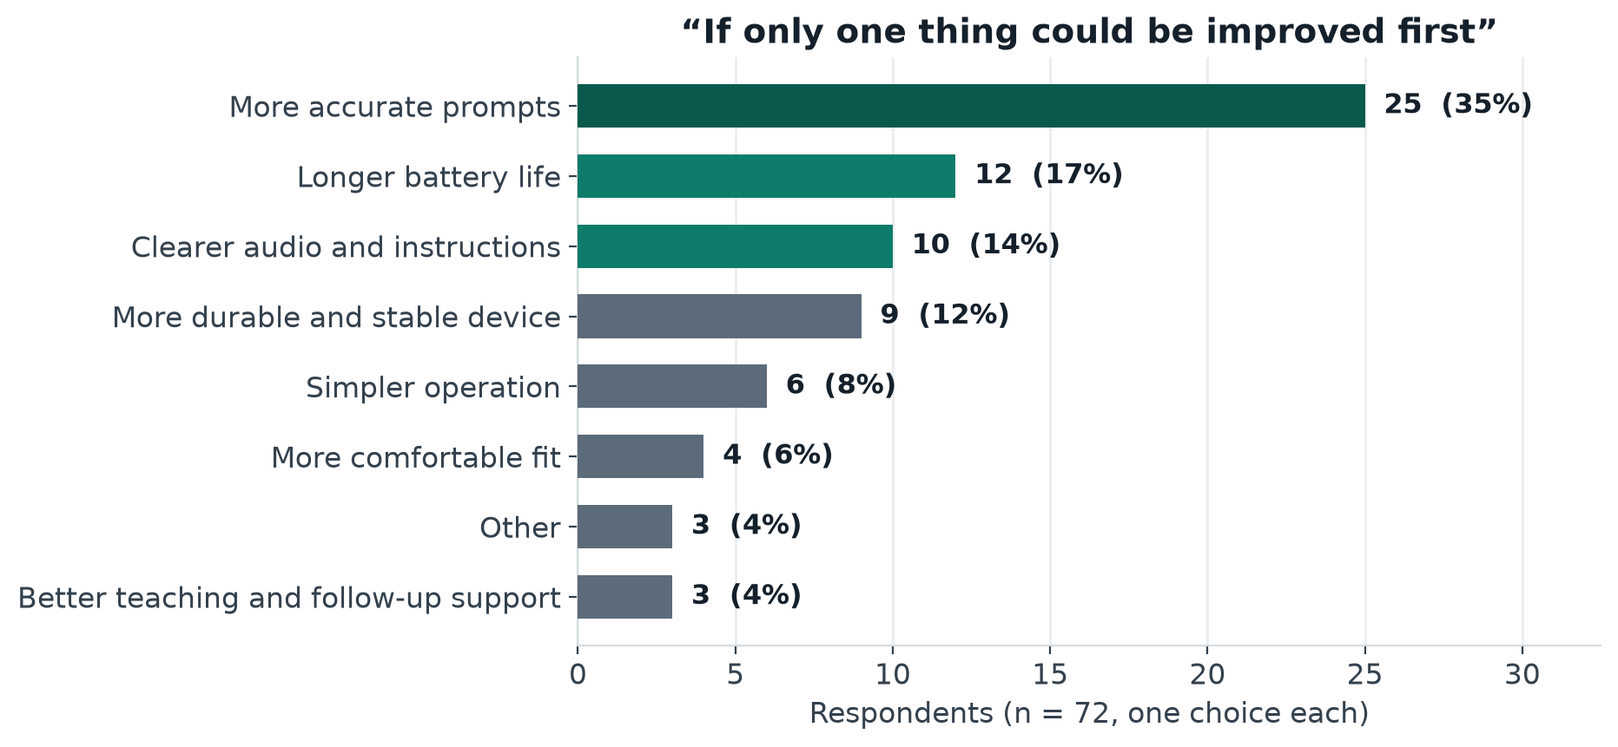
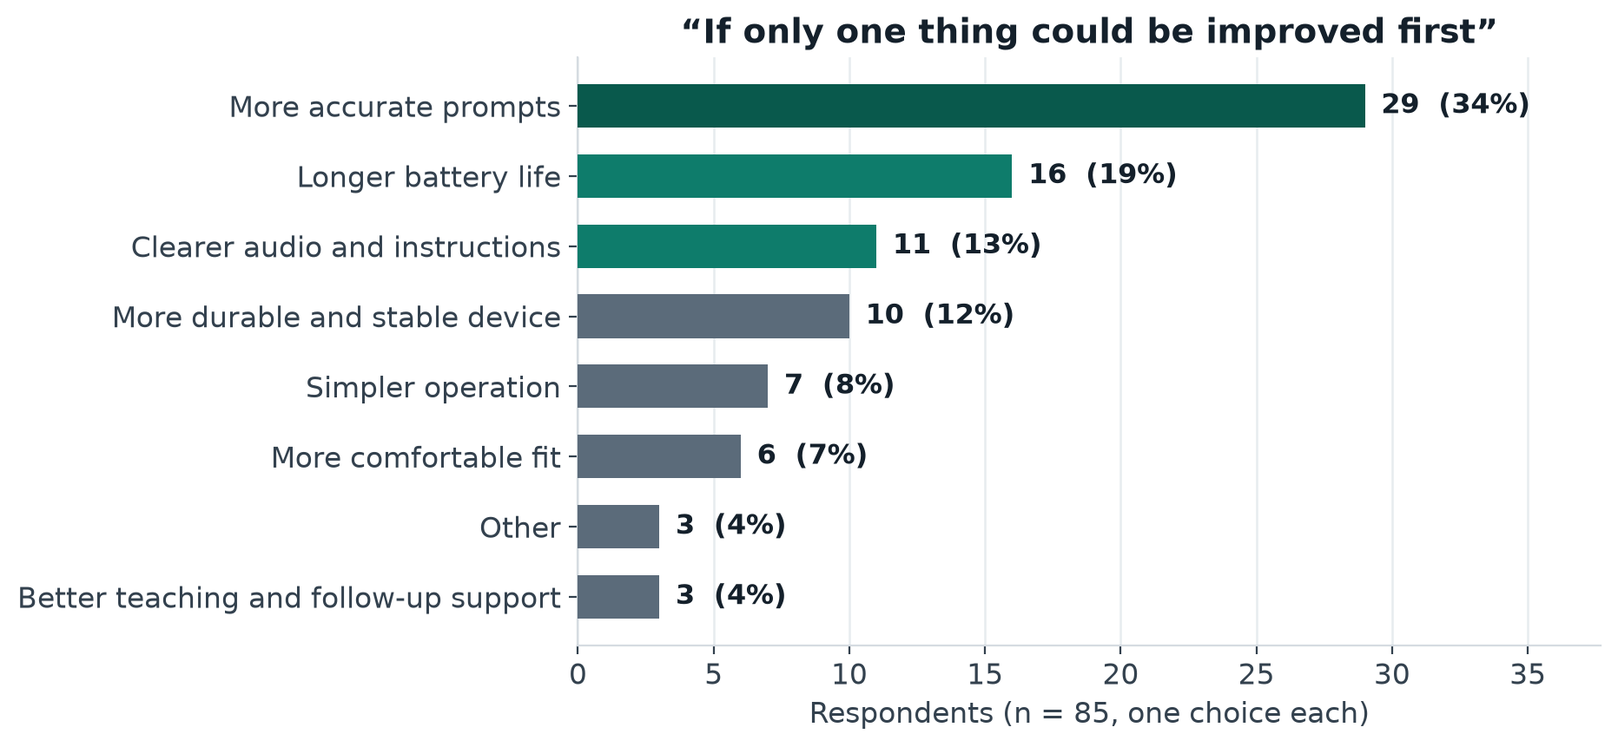
data: complete survey export (85 responses) and recompute all published figures
The first published export was missing 13 responses from the
Chinese-language path. The raw CSV is replaced byte-for-byte with the
complete export, summary.json and the four charts are regenerated with
the repository's own scripts, and every figure in the feedback report,
both READMEs, the community document, the roadmap and the evaluation
pages is updated to match. Mean helpfulness is unchanged at 3.47;
users rise 53 -> 64, inaccurate prompts 51% -> 48%, still using stays
9 (now of 64). A data note in FEEDBACK.md records the correction; the
v1.9.1 Zenodo archive keeps the figures as first published.

diff --git a/README.md b/README.md
@@ -17,7 +17,7 @@ An open-source, under-$35 navigation-glasses direction for blind and low-vision 
 
 [Demo →](#run-the-demo) · [Build →](design/v0.4/README.md) · [Feedback results →](docs/FEEDBACK.md) · [Join →](docs/CONTRIBUTING.md)
 
-**Under $35 to build** · **Nearly 60 people reached** · **72 feedback responses**
+**Under $35 to build** · **Nearly 60 people reached** · **85 feedback responses**
 
 ![Continuous Facets v0.4 — three-quarter studio render](assets/renders/01_hero.png)
 
@@ -38,13 +38,13 @@ An editable, lensless wraparound enclosure with a straighter brow, clipped corne
 
 From the participant feedback survey (August–November 2026) — the full results, raw data and limitations are in the [feedback report](docs/FEEDBACK.md):
 
-| **72** | **53** | **3.47 / 5** | **9 of 53** |
+| **85** | **64** | **3.47 / 5** | **9 of 64** |
 |:---:|:---:|:---:|:---:|
 | Survey responses | Had used the glasses at least once | Mean helpfulness, rated by those users | Still using them at survey time |
 
-<img src="assets/feedback/helpfulness.png" width="640" alt="Bar chart of helpfulness ratings from the 53 respondents who had used the glasses: 2 rated 1, 7 rated 2, 16 rated 3, 20 rated 4 and 8 rated 5, a mean of 3.47 out of 5" />
+<img src="assets/feedback/helpfulness.png" width="640" alt="Bar chart of helpfulness ratings from the 64 respondents who had used the glasses: 2 rated 1, 8 rated 2, 20 rated 3, 26 rated 4 and 8 rated 5, a mean of 3.47 out of 5" />
 
-The same survey names the top problem plainly: **51% of users said the prompts were inaccurate**. [What participants reported →](#participant-feedback)
+The same survey names the top problem plainly: **48% of users said the prompts were inaccurate**. [What participants reported →](#participant-feedback)
 
 ## The project
 
@@ -66,7 +66,7 @@ Today, this repository contains a runnable guidance demo, an optional laptop web
 | **December 2025** | First GitHub publication | The [initial repository commit](https://github.com/DresdenGman/AIGlasses_for_navigation/commit/12b121a3) was recorded on December 9, 2025 (UTC). Early documentation described tactile-paving navigation, crosswalk assistance, object search and voice interaction. |
 | **July 29, 2026** | Reproducible software prototype | A hardware-free FastAPI core, interactive dashboard, JSONL replay and in-memory event history were added. An authenticated device-observation gateway, per-device rate limiting, packaging and CI test configuration followed in the same iteration. |
 | **September 18, 2026** | Continuous Facets v0.4 | The lightweight enclosure direction was published with editable Blender files, GLB/STL exports, geometry checks, multiple rendered views and clearer community and cost documentation. |
-| **August–November 2026** | Participant feedback survey | 72 bilingual responses were collected from session participants, people who tried or kept the earlier prototype, and online-guide builders. Results — including the problems and the continued-use figures — are published with the raw data and a reproducible analysis in [Participant feedback](docs/FEEDBACK.md). |
+| **August–November 2026** | Participant feedback survey | 85 bilingual responses were collected from session participants, people who tried or kept the earlier prototype, and online-guide builders. Results — including the problems and the continued-use figures — are published with the raw data and a reproducible analysis in [Participant feedback](docs/FEEDBACK.md). |
 | **Late 2025–present** | Continuing community engagement | Outreach has reached four communities and nearly 60 blind or visually impaired people; three communities received practical explanations of how to make the device. Technical development and community engagement continue in parallel. |
 
 The early development dates and community history are provided by the project creator. Publication and software milestones are documented in the [commit history](https://github.com/DresdenGman/AIGlasses_for_navigation/commits/main/). The nearly one-year period refers to initial development during 2025; subsequent iteration continues beyond that period.
@@ -89,38 +89,38 @@ These figures describe contact and instruction, rather than devices delivered or
 
 ## Participant feedback
 
-In August–November 2026, an anonymous bilingual survey collected **72 responses** (36 in Chinese, 36 in English) from people who had encountered the project — at assembly sessions, through trying or keeping the earlier prototype, at presentations, or via the online guide. The full results, method and limitations are published in [Participant feedback](docs/FEEDBACK.md), together with the [raw responses](data/feedback/participant-feedback-survey-responses-2026.csv) and a script that recomputes every number.
+In August–November 2026, an anonymous bilingual survey collected **85 responses** (49 in Chinese, 36 in English) from people who had encountered the project — at assembly sessions, through trying or keeping the earlier prototype, at presentations, or via the online guide. The full results, method and limitations are published in [Participant feedback](docs/FEEDBACK.md), together with the [raw responses](data/feedback/participant-feedback-survey-responses-2026.csv) and a script that recomputes every number.
 
-| **72** | **53** | **3.47 / 5** | **9** |
+| **85** | **64** | **3.47 / 5** | **9** |
 |:---:|:---:|:---:|:---:|
-| Survey responses | Had used the glasses at least once | Mean helpfulness among those 53 users | Still using them at survey time |
+| Survey responses | Had used the glasses at least once | Mean helpfulness among those 64 users | Still using them at survey time |
 
 <table>
 <tr>
-<td><img src="assets/feedback/helpfulness.png" alt="Bar chart of helpfulness ratings from the 53 respondents who had used the glasses: 2 rated 1, 7 rated 2, 16 rated 3, 20 rated 4 and 8 rated 5, a mean of 3.47 out of 5" /></td>
-<td><img src="assets/feedback/problems.png" alt="Bar chart of problems reported by the 53 respondents who had used the glasses: inaccurate prompts 51 percent, battery life 38 percent, connection instability and unclear audio 30 percent each, fit 23 percent, complexity 15 percent, privacy concerns 11 percent, and 19 percent reported no problems" /></td>
+<td><img src="assets/feedback/helpfulness.png" alt="Bar chart of helpfulness ratings from the 64 respondents who had used the glasses: 2 rated 1, 8 rated 2, 20 rated 3, 26 rated 4 and 8 rated 5, a mean of 3.47 out of 5" /></td>
+<td><img src="assets/feedback/problems.png" alt="Bar chart of problems reported by the 64 respondents who had used the glasses: inaccurate prompts 48 percent, battery life 36 percent, connection instability 27 percent, unclear audio 28 percent, fit 22 percent, complexity 14 percent, privacy concerns 9 percent, and 17 percent reported no problems" /></td>
 </tr>
 <tr><td align="center">Helpfulness, as rated by users themselves</td><td align="center">Problems, reported on the same survey</td></tr>
 <tr>
-<td><img src="assets/feedback/improve-first.png" alt="Bar chart of the one improvement respondents most wanted fixed first, all 72 respondents: more accurate prompts 25, longer battery life 12, clearer audio 10, durability 9, simpler operation 6, comfort 4, teaching and set-up support 3, other 3" /></td>
-<td><img src="assets/feedback/participation.png" alt="Bar chart of how the 72 respondents took part: joined a hands-on build session 21, saw a demonstration only 19, tried the glasses 14, received and kept a pair 9, followed the online guide 3, organised or taught a session 3, other 3" /></td>
+<td><img src="assets/feedback/improve-first.png" alt="Bar chart of the one improvement respondents most wanted fixed first, all 85 respondents: more accurate prompts 29, longer battery life 16, clearer audio 11, durability 10, simpler operation 7, comfort 6, teaching and set-up support 3, other 3" /></td>
+<td><img src="assets/feedback/participation.png" alt="Bar chart of how the 85 respondents took part: joined a hands-on build session 24, saw a demonstration only 21, tried the glasses 22, received and kept a pair 9, followed the online guide 3, organised or taught a session 3, other 3" /></td>
 </tr>
-<tr><td align="center">If one thing is fixed first — all 72 respondents</td><td align="center">How respondents took part — all 72 responses</td></tr>
+<tr><td align="center">If one thing is fixed first — all 85 respondents</td><td align="center">How respondents took part — all 85 responses</td></tr>
 </table>
 
 Three findings set the project's priorities:
 
-- **Prompt accuracy is the central problem.** 51% of users said prompts were inaccurate or missed important information, and "more accurate prompts" was the single most-chosen improvement (25 of 72 respondents). A synthetic fixture eval counts false prompts and misses on generated lamps ([EVAL.md](docs/EVAL.md)). A separate local command can score a consented, redacted clip on one machine ([RECORDED_EVAL.md](docs/RECORDED_EVAL.md)); no such field set is in this repository, so no stronger field claim is warranted — see the [roadmap](docs/ROADMAP.md).
+- **Prompt accuracy is the central problem.** 48% of users said prompts were inaccurate or missed important information, and "more accurate prompts" was the single most-chosen improvement (29 of 85 respondents). A synthetic fixture eval counts false prompts and misses on generated lamps ([EVAL.md](docs/EVAL.md)). A separate local command can score a consented, redacted clip on one machine ([RECORDED_EVAL.md](docs/RECORDED_EVAL.md)); no such field set is in this repository, so no stronger field claim is warranted — see the [roadmap](docs/ROADMAP.md).
 - **Battery and audio follow.** 38% of users found the battery did not last long enough (one reported under an hour of continuous use), and 30% found the audio or instructions unclear.
-- **Continued use is weak, and it is reported here rather than smoothed over.** Of the 53 users, 9 still use the glasses, 14 use them less than before and 29 have stopped (one further response contradicts itself and is flagged in the full report). The survey's job was to surface exactly this.
+- **Continued use is weak, and it is reported here rather than smoothed over.** Of the 64 users, 9 still use the glasses, 19 use them less than before and 35 have stopped (one further response contradicts itself and is flagged in the full report). The survey's job was to surface exactly this.
 
 > "Reading medicine labels and bus stop signs for me."
-> — Survey respondent who kept a pair, rated the glasses 5/5, still using (quoted with permission; 57 of 72 respondents agreed to anonymous quotation)
+> — Survey respondent who kept a pair, rated the glasses 5/5, still using (quoted with permission; 68 of 85 respondents agreed to anonymous quotation)
 
 > "在楼道里走路能提前报前面堆着的纸箱，摸着确实在那，免得踢到绊脚。"
 > — *"Walking along the corridor, it told me about the stacked boxes ahead in time — I felt them, and they were there — so I did not trip over them."* — Respondent who kept a pair, rated 5/5, still using
 
-The survey covers the broader project and the earlier prototype, not the v0.4 enclosure. It was run by the project itself with a self-selected sample, and 40 of the 72 responses were not filled in on the form directly by the respondent — 25 were entered by a family member or volunteer, 12 were recorded by an organiser, and 3 were completed another way. The [full report](docs/FEEDBACK.md#limitations-of-this-data) explains what that means for reading the numbers.
+The survey covers the broader project and the earlier prototype, not the v0.4 enclosure. It was run by the project itself with a self-selected sample, and 51 of the 85 responses were not filled in on the form directly by the respondent — 34 were entered by a family member or volunteer, 14 were recorded by an organiser, and 3 were completed another way. The [full report](docs/FEEDBACK.md#limitations-of-this-data) explains what that means for reading the numbers.
 
 [Full results, method and limitations →](docs/FEEDBACK.md) · [Raw data →](data/feedback/) · [Reproduce the analysis →](data/feedback/analyze_feedback.py)
 
@@ -232,7 +232,7 @@ The repository provides a working software demonstration and inspectable design 
 | **Software** | Guidance rules, dashboard, REST/WebSocket interfaces, replay, device ingestion, and an optional laptop camera / speech path. | Street-video evaluation, distance sensing, and ESP32 integration. |
 | **Enclosure** | Editable v0.4 geometry, exports, render scenes and source-geometry checks. | Physical scale calibration, measured components, mounting, cable routing, fabrication and fit. |
 | **Evaluation** | Repeatable structured-observation scenarios, repository tests, a synthetic perception eval (false prompts, misses, host latency, and repeat suppression on generated lamps), a first labeled real-frame traffic-light measurement ([Evaluation](docs/EVALUATION.md)), and a local recorded-video command that scores a private clip only after consent and redaction are attested. | Consented field collection, message comprehension, and physical-prototype testing. The recorded-video command does not by itself supply a street result. |
-| **Community** | Outreach across four communities and making instruction in three, reaching nearly 60 people; a completed 72-response participant survey with published raw data. | Continued engagement; accuracy, battery and audio work prioritised from the survey findings. |
+| **Community** | Outreach across four communities and making instruction in three, reaching nearly 60 people; a completed 85-response participant survey with published raw data. | Continued engagement; accuracy, battery and audio work prioritised from the survey findings. |
 
 [Development roadmap →](docs/ROADMAP.md)
 

diff --git a/docs/FEEDBACK.md b/docs/FEEDBACK.md
@@ -1,6 +1,8 @@
 # Participant feedback — survey results
 
-**72 responses · 36 in Chinese, 36 in English · collected 26 August – 4 November 2026**
+**85 responses · 49 in Chinese, 36 in English · collected 26 August – 4 November 2026**
+
+> **Data note (5 November 2026).** This page first reported 72 responses. A fuller export of the same survey then added 13 responses — all from the Chinese-language path, all inside the same collection window — and every figure below has been recomputed from the complete export. The mean helpfulness score did not move (3.47); most counts did. The earlier figures remain in the repository history and in the archived v1.9.1 release.
 
 This page reports a bilingual, anonymous feedback survey completed by people who encountered the project in different ways: hands-on assembly sessions, trying or keeping a pair of the earlier-prototype glasses, presentations, and the online build guide. It covers the broader project and the earlier hardware prototype — **not** the v0.4 enclosure design, which respondents had not used.
 
@@ -26,14 +28,14 @@ python3 data/feedback/analyze_feedback.py   # regenerates summary.json
 
 | How the form was completed | Responses |
 |---|---:|
-| Completed it myself | 32 |
-| A family member or volunteer entered my answers | 25 |
-| An activity organiser recorded my answers | 12 |
+| Completed it myself | 34 |
+| A family member or volunteer entered my answers | 34 |
+| An activity organiser recorded my answers | 14 |
 | Another way | 3 |
 
 Proxy completion can soften or shift answers, so it is disclosed here and should be kept in mind when reading every result below.
 
-- 57 of 72 respondents (79%) agreed to anonymous quotation of their open-ended answers. **Only those responses are quoted on this page.**
+- 68 of 85 respondents (80%) agreed to anonymous quotation of their open-ended answers. **Only those responses are quoted on this page.**
 
 ## Who responded
 
@@ -41,19 +43,19 @@ Proxy completion can soften or shift answers, so it is disclosed here and should
 
 | Involvement | Responses |
 |---|---:|
-| Hands-on assembly / building session | 21 |
-| Presentation or demo only | 19 |
-| Tried wearing or using the glasses | 14 |
+| Hands-on assembly / building session | 24 |
+| Presentation or demo only | 21 |
+| Tried wearing or using the glasses | 22 |
 | Received or kept a pair | 9 |
 | Learned from / built via the online guide | 3 |
 | Helped organise, teach, or maintain | 3 |
 | Other | 3 |
 
-50 respondents named a session or community in free text, producing 32 distinct labels (community centres, senior activity centres, a library demo, a makerspace, disability-support and blind-association workshops, volunteer training, and home builds from the guide). The labels were written by respondents and were not standardised, so they are **not** converted into a count of communities.
+60 respondents named a session or community in free text, producing 32 distinct labels (community centres, senior activity centres, a library demo, a makerspace, disability-support and blind-association workshops, volunteer training, and home builds from the guide). The labels were written by respondents and were not standardised, so they are **not** converted into a count of communities.
 
-**53 of the 72 respondents had used the glasses at least once; 19 never did** (most of them attended a presentation only). The results below use these two groups consistently:
+**64 of the 85 respondents had used the glasses at least once; 21 never did** (most of them attended a presentation only). The results below use these two groups consistently:
 
-- **Users** = the 53 who reported using the glasses at least once.
+- **Users** = the 64 who reported using the glasses at least once.
 - Ratings from the never-used group are excluded from user statistics, including four numeric ratings given anyway.
 
 ## What users reported
@@ -62,36 +64,36 @@ Proxy completion can soften or shift answers, so it is disclosed here and should
 
 ![Helpfulness distribution among respondents who had used the glasses](../assets/feedback/helpfulness.png)
 
-Among the 53 users — all of whom gave a rating — the mean score was **3.47 out of 5**:
+Among the 64 users — all of whom gave a rating — the mean score was **3.47 out of 5**:
 
 | Rating | 1 | 2 | 3 | 4 | 5 |
 |---|---:|---:|---:|---:|---:|
-| Responses | 2 | 7 | 16 | 20 | 8 |
+| Responses | 2 | 8 | 20 | 26 | 8 |
 
-28 of 53 (53%) rated the glasses 4 or 5; 9 of 53 (17%) rated them 1 or 2. The middle of the distribution is the honest headline: helpful for many people in specific moments, not yet reliable enough to be more than that.
+34 of 64 (53%) rated the glasses 4 or 5; 10 of 64 (16%) rated them 1 or 2. The middle of the distribution is the honest headline: helpful for many people in specific moments, not yet reliable enough to be more than that.
 
 ### What they used it for
 
-Most-reported situations (asked of all 72 respondents, multiple selections allowed; 18 respondents answered that they did not actually use them):
+Most-reported situations (asked of all 85 respondents, multiple selections allowed; 20 respondents answered that they did not actually use them):
 
 | Situation | Responses |
 |---|---:|
-| Assembling or testing at an activity session | 39 |
-| Finding objects or people indoors | 27 |
-| Reading signs, text, or information about surroundings | 21 |
-| Testing at home | 19 |
-| Moving around a familiar indoor space | 15 |
-| A short trial outdoors | 9 |
+| Assembling or testing at an activity session | 46 |
+| Finding objects or people indoors | 31 |
+| Reading signs, text, or information about surroundings | 23 |
+| Testing at home | 22 |
+| Moving around a familiar indoor space | 17 |
+| A short trial outdoors | 11 |
 
 Use is concentrated indoors and at sessions. Outdoor use is a short supervised trial in this data, not independent travel.
 
 ### Operating it independently
 
-Among the 53 users: **20** could complete the main steps independently, **21** needed a little help, **10** needed a lot of help, and **2** basically could not operate the glasses independently. Needing help at first contact is the norm in this sample, which is why session teaching matters — and why simpler start-up is a recurring request below.
+Among the 64 users: **21** could complete the main steps independently, **27** needed a little help, **14** needed a lot of help, and **2** basically could not operate the glasses independently. Needing help at first contact is the norm in this sample, which is why session teaching matters — and why simpler start-up is a recurring request below.
 
 ### Continued use
 
-Of the 53 users, **9 still use the glasses, 14 use them less than before, and 29 have stopped** (one further response marked "never actually used" here despite reporting a use count earlier; it is kept in the group and flagged rather than silently reassigned).
+Of the 64 users, **9 still use the glasses, 19 use them less than before, and 35 have stopped** (one further response marked "never actually used" here despite reporting a use count earlier; it is kept in the group and flagged rather than silently reassigned).
 
 Continued use is the weakest result in this survey. The problems table below is the best available explanation, and it sets the project's priorities more honestly than the helpfulness average does.
 
@@ -99,31 +101,31 @@ Continued use is the weakest result in this survey. The problems table below is 
 
 ![Problems experienced by respondents who had used the glasses](../assets/feedback/problems.png)
 
-| Problem (users, n = 53, multiple selections) | Responses | Share |
+| Problem (users, n = 64, multiple selections) | Responses | Share |
 |---|---:|---:|
-| Prompts were inaccurate or missed important information | 27 | 51% |
-| Battery did not last long enough | 20 | 38% |
-| Device stopped working or the connection was unstable | 16 | 30% |
-| Audio or instructions were unclear | 16 | 30% |
-| Uncomfortable fit or wrong size | 12 | 23% |
-| Too complicated to operate | 8 | 15% |
-| Privacy concerns | 6 | 11% |
-| No problems experienced | 10 | 19% |
+| Prompts were inaccurate or missed important information | 31 | 48% |
+| Battery did not last long enough | 23 | 36% |
+| Device stopped working or the connection was unstable | 17 | 27% |
+| Audio or instructions were unclear | 18 | 28% |
+| Uncomfortable fit or wrong size | 14 | 22% |
+| Too complicated to operate | 9 | 14% |
+| Privacy concerns | 6 | 9% |
+| No problems experienced | 11 | 17% |
 
-Prompt accuracy is the dominant problem by a wide margin — reported by just over half of all users. It is a perception-quality problem, and it is also a safety-relevant one: a device that sometimes describes the wrong thing teaches its user not to trust it.
+Prompt accuracy is the dominant problem by a wide margin — reported by just under half of all users. It is a perception-quality problem, and it is also a safety-relevant one: a device that sometimes describes the wrong thing teaches its user not to trust it.
 
 ## The one improvement respondents would make first
 
 ![Single top improvement priority across all respondents](../assets/feedback/improve-first.png)
 
-| Priority (all 72 respondents, one choice) | Responses |
+| Priority (all 85 respondents, one choice) | Responses |
 |---|---:|
-| More accurate prompts | 25 |
-| Longer battery life | 12 |
-| Clearer audio and instructions | 10 |
-| More durable and stable device | 9 |
-| Simpler operation | 6 |
-| More comfortable fit | 4 |
+| More accurate prompts | 29 |
+| Longer battery life | 16 |
+| Clearer audio and instructions | 11 |
+| More durable and stable device | 10 |
+| Simpler operation | 7 |
+| More comfortable fit | 6 |
 | Better teaching and follow-up support | 3 |
 | Other | 3 |
 
@@ -181,8 +183,8 @@ A navigation aid that leaves the crossing decision with the user is less impress
 
 Read these results with the following in mind:
 
-- **Self-selected sample.** Respondents are people who chose to answer, recruited through the project's own sessions and guide. There is no sampling frame and no response rate, so these figures describe these 72 people — not all participants, and not blind and low-vision people generally.
-- **Assisted completion.** 40 of 72 responses were not filled in directly by the respondent: 25 were entered by a family member or volunteer, 12 were recorded by an activity organiser, and 3 were completed another way (see the method table). This was necessary for accessibility, and it can also bias wording and ratings.
+- **Self-selected sample.** Respondents are people who chose to answer, recruited through the project's own sessions and guide. There is no sampling frame and no response rate, so these figures describe these 85 people — not all participants, and not blind and low-vision people generally.
+- **Assisted completion.** 51 of 85 responses were not filled in directly by the respondent: 34 were entered by a family member or volunteer, 14 were recorded by an activity organiser, and 3 were completed another way (see the method table). This was necessary for accessibility, and it can also bias wording and ratings.
 - **Small subgroups.** Only 9 respondents kept a pair of glasses; their continued use is encouraging and statistically fragile at the same time.
 - **Earlier prototype, mixed settings.** Answers cover different sessions, settings and points in the project's development. They are not measurements of one frozen device configuration, and no mobility or safety outcome was measured.
 - **Two field inconsistencies, kept visible.** Seven responses hold a current-use value ("still using") in the use-count field; they are counted as users because their other answers describe real use. One response reports a use count but marks current use as "never actually used"; it is flagged in the continued-use figures rather than corrected.
@@ -192,7 +194,7 @@ Read these results with the following in mind:
 
 | File | Contents |
 |---|---|
-| [participant-feedback-survey-responses-2026.csv](../data/feedback/participant-feedback-survey-responses-2026.csv) | Raw survey export, byte-for-byte as provided (72 responses, bilingual columns) |
+| [participant-feedback-survey-responses-2026.csv](../data/feedback/participant-feedback-survey-responses-2026.csv) | Raw survey export, byte-for-byte as provided (85 responses, bilingual columns; the complete export replaced the earlier 72-response file on 5 November 2026) |
 | [summary.json](../data/feedback/summary.json) | Every count published on this page |
 | [analyze_feedback.py](../data/feedback/analyze_feedback.py) | Standard-library script that merges the bilingual columns and regenerates the summary |
 | [make_charts.py](../data/feedback/make_charts.py) | Chart script (matplotlib) that renders the four charts from `summary.json` |

diff --git a/docs/README.zh-CN.md b/docs/README.zh-CN.md
@@ -8,13 +8,13 @@
 
 来自 2026 年 8–11 月参与者反馈问卷（完整结果、原始数据与局限说明见[反馈报告（英文）](FEEDBACK.md)）：
 
-| **72** | **53** | **3.47 / 5** | **9 / 53** |
+| **85** | **64** | **3.47 / 5** | **9 / 64** |
 |:---:|:---:|:---:|:---:|
 | 问卷回收份数 | 实际使用过眼镜的人数 | 使用者自评帮助程度平均分 | 问卷时仍在继续使用的人数 |
 
-<img src="../assets/feedback/helpfulness.png" width="640" alt="53 位实际使用者对帮助程度的评分分布：1 分 2 人、2 分 7 人、3 分 16 人、4 分 20 人、5 分 8 人，平均 3.47 分（满分 5 分）" />
+<img src="../assets/feedback/helpfulness.png" width="640" alt="64 位实际使用者对帮助程度的评分分布：1 分 2 人、2 分 8 人、3 分 20 人、4 分 26 人、5 分 8 人，平均 3.47 分（满分 5 分）" />
 
-同一份问卷也直说了最主要的问题：**51% 的使用者认为提示不准确**。[参与者反馈详情 →](#参与者反馈2026)
+同一份问卷也直说了最主要的问题：**48% 的使用者认为提示不准确**。[参与者反馈详情 →](#参与者反馈2026)
 
 ## 社区工作
 
@@ -28,12 +28,12 @@
 
 ## 参与者反馈（2026）
 
-2026 年 8–11 月，项目做了一次双语匿名问卷，共回收 **72 份**（中文 36 份、英文 36 份），填写者包括装配活动参与者、试戴或领取过早期原型的使用者、演示听众和按网上指南自制的制作者。
+2026 年 8–11 月，项目做了一次双语匿名问卷，共回收 **85 份**（中文 49 份、英文 36 份；2026 年 11 月 5 日按完整导出补正，此前少计了 13 份中文回复，本节数字已全部重算），填写者包括装配活动参与者、试戴或领取过早期原型的使用者、演示听众和按网上指南自制的制作者。
 
-- 53 位实际使用过眼镜的填写者给出的帮助程度平均为 **3.47 / 5 分**；其中 28 位给出 4–5 分，9 位给出 1–2 分。
-- 被报告最多的问题是**提示不准确或漏掉重要信息**（53 位使用者中的 27 位，占 51%），其次是续航不足（38%）；“先改进提示准确度”也是全体填写者中选择最多的一项（25/72）。
-- 持续使用情况如实记录：53 位使用者中 9 位仍在使用、14 位用得比以前少、29 位已经停用（另有 1 份回答前后不一致，报告中已标注）。
-- 72 份中有 40 份不是本人直接在表单上填写的：25 份由家人或志愿者根据本人回答代填、12 份由活动组织者记录、3 份为其他方式——这一方法局限与全部原始数据、统计脚本一并公开，见[反馈报告（英文）](FEEDBACK.md)与[原始数据](../data/feedback/)。
+- 64 位实际使用过眼镜的填写者给出的帮助程度平均为 **3.47 / 5 分**；其中 34 位给出 4–5 分，10 位给出 1–2 分。
+- 被报告最多的问题是**提示不准确或漏掉重要信息**（64 位使用者中的 31 位，占 48%），其次是续航不足（36%）；“先改进提示准确度”也是全体填写者中选择最多的一项（29/85）。
+- 持续使用情况如实记录：64 位使用者中 9 位仍在使用、19 位用得比以前少、35 位已经停用（另有 1 份回答前后不一致，报告中已标注）。
+- 85 份中有 51 份不是本人直接在表单上填写的：34 份由家人或志愿者根据本人回答代填、14 份由活动组织者记录、3 份为其他方式——这一方法局限与全部原始数据、统计脚本一并公开，见[反馈报告（英文）](FEEDBACK.md)与[原始数据](../data/feedback/)。
 
 问卷针对的是项目整体与早期原型，不是 v0.4 外壳；样本为自愿填写，不能代表全部参与者。
 

diff --git a/docs/COMMUNITY_AND_COST.md b/docs/COMMUNITY_AND_COST.md
@@ -16,11 +16,11 @@ Instruction has been reported; ongoing independent production volume and long-te
 
 ## Devices built and shared
 
-The creator reports building **20 assembled units of the earlier hardware prototype, plus additional parts kits**, and sharing them with participants across the communities above. This is the creator's count of devices built and handed over. It is not a count of devices in current use: the 2026 survey below asked about continued use separately, and its answers (9 of 53 users still using) are the record for that question.
+The creator reports building **20 assembled units of the earlier hardware prototype, plus additional parts kits**, and sharing them with participants across the communities above. This is the creator's count of devices built and handed over. It is not a count of devices in current use: the 2026 survey below asked about continued use separately, and its answers (9 of 64 users still using) are the record for that question.
 
 ## Participant feedback (2026)
 
-A bilingual anonymous survey collected **72 responses** in August–November 2026 from session participants, people who tried or kept the earlier prototype, and online-guide builders. Among the 53 respondents who had used the glasses, the mean helpfulness rating was 3.47 out of 5; the most-reported problem was inaccurate prompts (51%), and 9 of the 53 were still using the glasses at survey time. Full results, method, limitations and the raw data are published in [Participant feedback](FEEDBACK.md).
+A bilingual anonymous survey collected **85 responses** in August–November 2026 from session participants, people who tried or kept the earlier prototype, and online-guide builders. Among the 64 respondents who had used the glasses, the mean helpfulness rating was 3.47 out of 5; the most-reported problem was inaccurate prompts (48%), and 9 of the 64 were still using the glasses at survey time. Full results, method, limitations and the raw data are published in [Participant feedback](FEEDBACK.md).
 
 ## Hardware cost
 

diff --git a/docs/ROADMAP.md b/docs/ROADMAP.md
@@ -22,7 +22,7 @@
 
 - Scenario replay with recorded model versions, thresholds, devices and test dates.
 - Evaluation of message uncertainty and user interpretation in controlled settings.
-- Perception-accuracy evaluation on recorded video — false prompts and missed objects counted separately. This is the top problem (51% of users) and the top improvement priority (25 of 72 respondents) in the 2026 participant survey, and it gates any stronger field claim. The synthetic fixture eval does not lift this gate. The local recorded-video command does not lift it either: no consented field set has been collected or reported here.
+- Perception-accuracy evaluation on recorded video — false prompts and missed objects counted separately. This is the top problem (48% of users) and the top improvement priority (29 of 85 respondents) in the 2026 participant survey, and it gates any stronger field claim. The synthetic fixture eval does not lift this gate. The local recorded-video command does not lift it either: no consented field set has been collected or reported here.
 - A first measurement on labeled real frames now exists: [EVALUATION.md](EVALUATION.md) scores the camera path on 215 Bosch benchmark frames (coverage 4 of 61 single-state red/green frames; one red frame read as green). Those are distant vehicle-mounted lights, not consented near-field footage, so the recorded-video item above remains open.
 - Battery-endurance measurement under continuous use, after survey respondents reported the battery not lasting long enough (38% of users; one report of under one hour).
 - Audio-clarity checks in noisy rooms, after 30% of users reported unclear audio or instructions.

diff --git a/docs/EVAL.md b/docs/EVAL.md
@@ -137,4 +137,4 @@ Do not add a clip that needs YOLOX weights, a network fetch, or a picture of a p
 - Green withheld, unknown withheld, and the red-square block are rule outcomes. They are not evidence that perception is accurate.
 - Object-absence frames check that the heuristic does not invent an obstacle when YOLOX is not running. They do not measure whether YOLOX would see a person. There is no person in the fixture.
 - Latency is one process on one machine.
-- Participant feedback still says prompt accuracy is the main problem (51% of users; 25 of 72 asked for more accurate prompts first). This harness makes a synthetic baseline measurable. It does not close that gap. The local recorded-video command can score a consented, redacted clip on one machine. That command existing is not a field result. Stronger claims still wait on a consented collection that is reported without publishing the media. See [the recorded-video note](RECORDED_EVAL.md), [the roadmap](ROADMAP.md), and [data boundaries](DATA_BOUNDARIES.md).
+- Participant feedback still says prompt accuracy is the main problem (48% of users; 29 of 85 asked for more accurate prompts first). This harness makes a synthetic baseline measurable. It does not close that gap. The local recorded-video command can score a consented, redacted clip on one machine. That command existing is not a field result. Stronger claims still wait on a consented collection that is reported without publishing the media. See [the recorded-video note](RECORDED_EVAL.md), [the roadmap](ROADMAP.md), and [data boundaries](DATA_BOUNDARIES.md).

diff --git a/docs/EVALUATION.md b/docs/EVALUATION.md
@@ -2,7 +2,7 @@
 
 **215 labeled driving frames · 321 annotated traffic lights · the production heuristic, untuned**
 
-The 2026 participant survey ([FEEDBACK.md](FEEDBACK.md)) put inaccurate prompts first among reported problems: 51% of the people who had used the glasses named them, and "more accurate prompts" was the single most-chosen improvement. Until now that complaint had no measured counterpart. This page is the first check of the laptop camera path — the OpenCV lamp heuristic in `aiglasses/vision.py` — against real, independently labeled road images.
+The 2026 participant survey ([FEEDBACK.md](FEEDBACK.md)) put inaccurate prompts first among reported problems: 48% of the people who had used the glasses named them, and "more accurate prompts" was the single most-chosen improvement. Until now that complaint had no measured counterpart. This page is the first check of the laptop camera path — the OpenCV lamp heuristic in `aiglasses/vision.py` — against real, independently labeled road images.
 
 The headline result is not a pass. On single-state red/green frames the path abstained on 57 of 61 frames, and its one wrong call was the worst kind: a red light read as green. The numbers are published in full because a measurement that only appears when it flatters the system is not a measurement.
 
